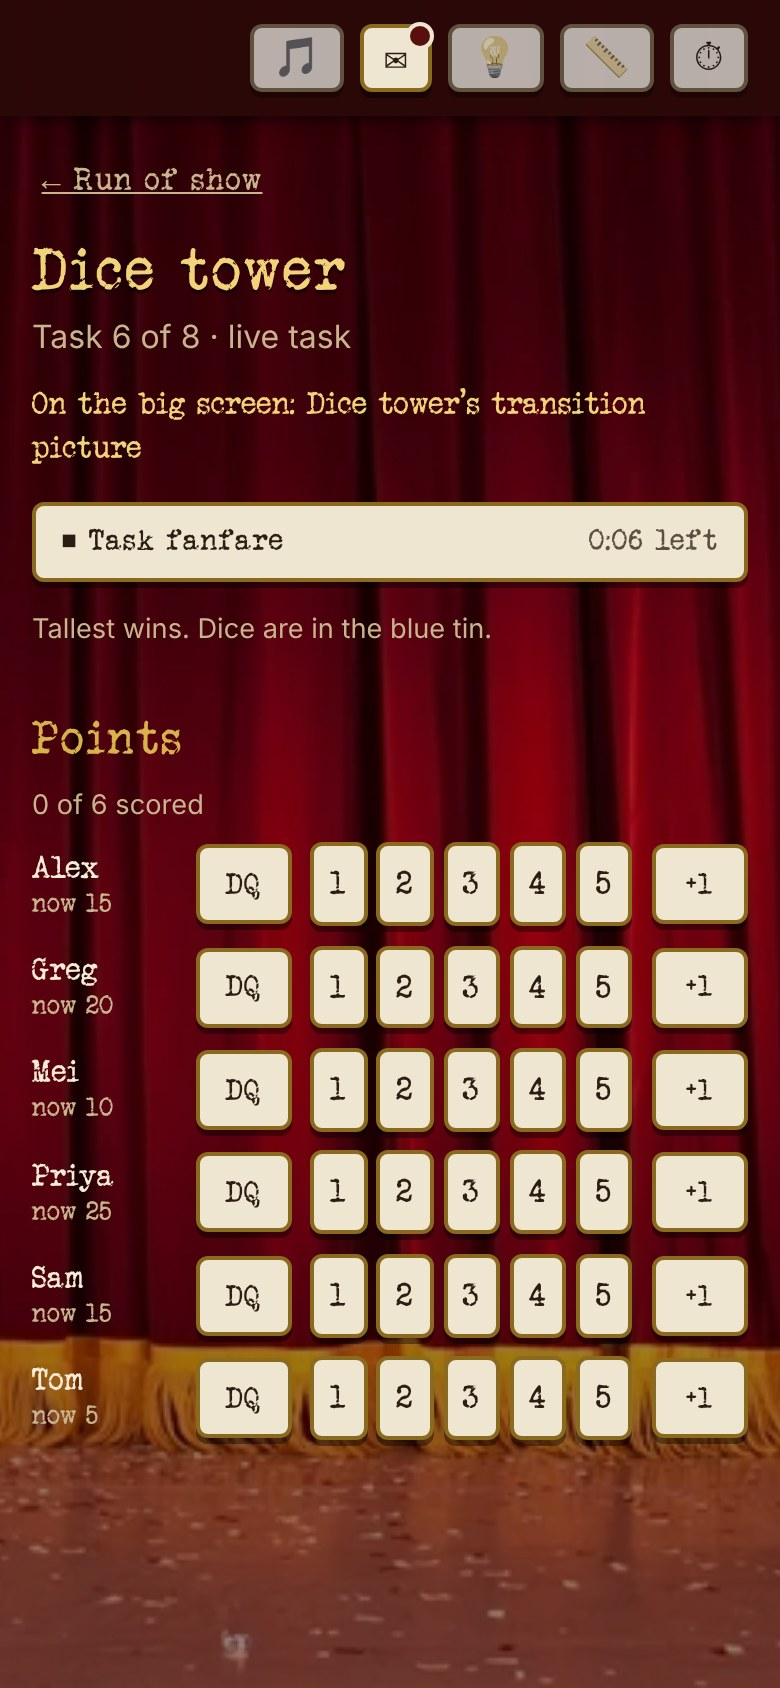
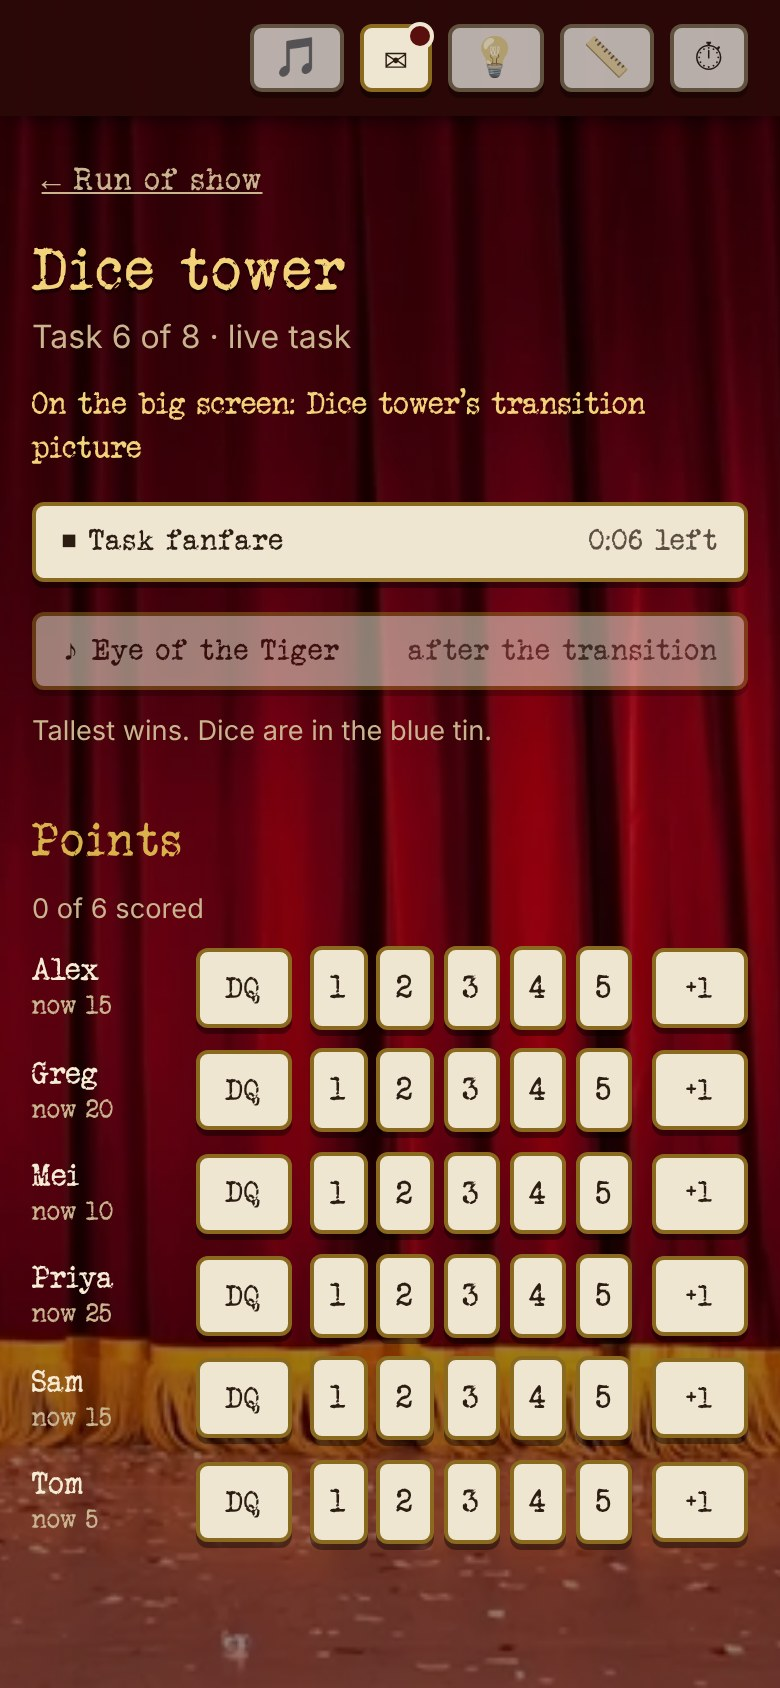
Song strip: disabled while a task's transition sound plays
Claude-Session: https://claude.ai/code/session_01CjjuoncHbko52b6sepLhw6

diff --git a/src/SongStrip.tsx b/src/SongStrip.tsx
@@ -6,7 +6,8 @@ import type { Session } from "./types";
 /**
  * A task's song, on its run-of-show row and its page: a small remote for the jukebox. One tap plays it on
  * the big screen (once: Repeat goes off), another pauses it. It is pressed in while it plays (never gold: gold stays on
- * the next thing to do), whoever started it. Disabled, with the reason, while the main screen's music folder isn't open or the song isn't in it.
+ * the next thing to do), whoever started it. Disabled, with the reason, while the main screen's music folder isn't open or the song isn't in it,
+ * and while a task's transition sound (music or video) plays: the song waits for it to finish.
  */
 export function SongStrip({ code, session, song }: { code: string; session: Session; song: string }) {
   const jukebox = session.jukebox;
@@ -14,7 +15,9 @@ export function SongStrip({ code, session, song }: { code: string; session: Sess
   const i = tracks.indexOf(song);
   const state = jukebox?.state ?? {};
   const playing = i >= 0 && state.current === i && state.playing === true;
-  const problem = !jukebox?.open ? "music folder not open" : i < 0 ? "not in the music folder" : undefined;
+  const stingTask = session.sting && session.scoreboard?.tasks?.[session.sting.task];
+  const stingSounds = !!stingTask && !!(stingTask.transition || stingTask.transitionVideo);
+  const problem = !jukebox?.open ? "music folder not open" : i < 0 ? "not in the music folder" : stingSounds ? "after the transition" : undefined;
   const toggle = () => void setJukeboxState(code, playing ? { playing: false } : { current: i, playing: true, repeat: false });
   return (
     <button className={`sb-song${playing ? " pressed-in" : ""}`} disabled={!!problem} onClick={toggle}

diff --git a/docs/guest-shots/shots.tsx b/docs/guest-shots/shots.tsx
@@ -216,7 +216,7 @@ function build() {
       // The sting's file was renamed since the task was planned: the picture is there, the music isn't.
       if (shot === "host-run-transition-missing") Object.assign(tasks.t6 as object, { transition: "Fanfare (old)" });
       // On the host's phone, two seconds into the sting: Dice tower's page, the scores down.
-      if (shot === "host-sting") { set("sting", { task: "t6", at: Date.now() - 2000 }); set("display", { step: "curtain" }); }
+      if (shot === "host-sting") { set("sting", { task: "t6", at: Date.now() - 2000 }); set("display", { step: "curtain" }); Object.assign(tasks.t6 as object, { song: "Eye of the Tiger" }); }
       session.jukebox = { tracks: ["Think music", "Eye of the Tiger"], durations: [32, 245], transitions: ["Drumroll", "Task fanfare", "Whoosh"], transitionDurations: [5, 8, 2], transitionPictures: ["Dice tower.jpg", "Halloween title.png", "Sock puppets.jpg"], transitionVideos: ["Drumroll cam.mp4", "Spooky intro.mp4"], transitionVideoDurations: [12, 9], tracksAt: new Date(2026, 9, 21).getTime(), open: true, state: {} };
       break;
     }

diff --git a/docs/screens/README.md b/docs/screens/README.md
@@ -162,7 +162,7 @@ Scoreboard (taken on 2026-10-12, from the real components with made-up sessions;
 | `run-of-show-host.jpg` | The remote's home: the party line "Halloween party · ABCD" with a small "Show QR" chip at its right, "On the big screen: the soundboard" with a small "Show scores" chip under it, the "Up next" card with gold "▶ Start Headshot", the read-only task list with one state each, and "Play a task that's not on the list", "Plan the party", "Party settings" at the bottom (party ABCD, 2026-10-19) |
 | `up-next-transition.jpg` | The Up next card for Dice tower, a live task with a transition: gold "Start task 6 →" with "♪ Task fanfare · 0:08 · 🖼 Dice tower" as its second line (party ABCD, tasks 1 to 5 scored, 2026-10-22) |
 | `up-next-transition-missing.jpg` | The same card when the music has gone from Transition music: "♪ Fanfare (old)" struck through and greyed, "not found", the picture still there, Start still gold (2026-10-22) |
-| `host-sting.jpg` | Dice tower's page two seconds after Start: "On the big screen: Dice tower's transition picture" and the "⏹ Task fanfare · 0:06 left" strip, one tap ends it (2026-10-22) |
+| `host-sting.jpg` | Dice tower's page two seconds after Start: "On the big screen: Dice tower's transition picture" and the "⏹ Task fanfare · 0:06 left" strip, one tap ends it; the task's song strip disabled, "after the transition" (2026-10-22) |
 | `task-edit-transition.jpg` | Dice tower's ✎ page with Transition open: "Plays on the big screen the moment you tap Start.", Music (♪ Task fanfare 0:08), Picture (🖼 Dice tower), "Or a video, on its own" (No video), "The picture comes down when the music ends." (2026-10-22) |
 | `run-of-show-host-scrolled.jpg` | Run of show scrolled down to the task list (party ABCD, Halloween party): the four header icons stay at the top on their dark band, with the page sliding under them. Older host screenshots show the header without its band (2026-10-19) |
 | `run-of-show-host-scores-up.jpg` | The scores up: the scoreboard's controls take the top slot, gold "Update the scores" with "On the big screen: the scores, before Hum a theme tune", "Lower the curtain" as a link, and the "Up next" card's button paper (2026-10-18) |

diff --git a/docs/style-guide.md b/docs/style-guide.md
@@ -109,7 +109,7 @@ Lists of people, tasks and photos on the host remote use the same handful of sta
 | On the big screen now (a photo) | Gold ring: `--gold-edge` border and a `--gold-bright` glow | Prize task's previews |
 | The chosen one | A small gold `★` disc in the corner; `☆` on the others moves it | Prize photos (the one the haul shows) |
 | Already used | Disabled, with a small uppercase "on the list" label inside | "+ App task" choices |
-| Can't play | Disabled, with the reason in words where the song's length goes ("music folder not open", "not in the music folder") | A task's song strip |
+| Can't play | Disabled, with the reason in words where the song's length goes ("music folder not open", "not in the music folder", "after the transition" while a task's transition sound plays) | A task's song strip |
 | Playing | Pressed in (`.pressed-in`: down 2px, inset shadow, paper `#e6d6b0`, bold), ▶ becomes ⏸. Never gold: gold stays on the next thing to do | A task's song strip, the jukebox's current song |
 | Disqualified | DQ chip pressed in; what they'd have had struck through and faded (`.was`), never removed | The points page |
 | Over a dB task's line | The same DQ, with "over 60" under the 0 instead of "DQ" | The points page |
